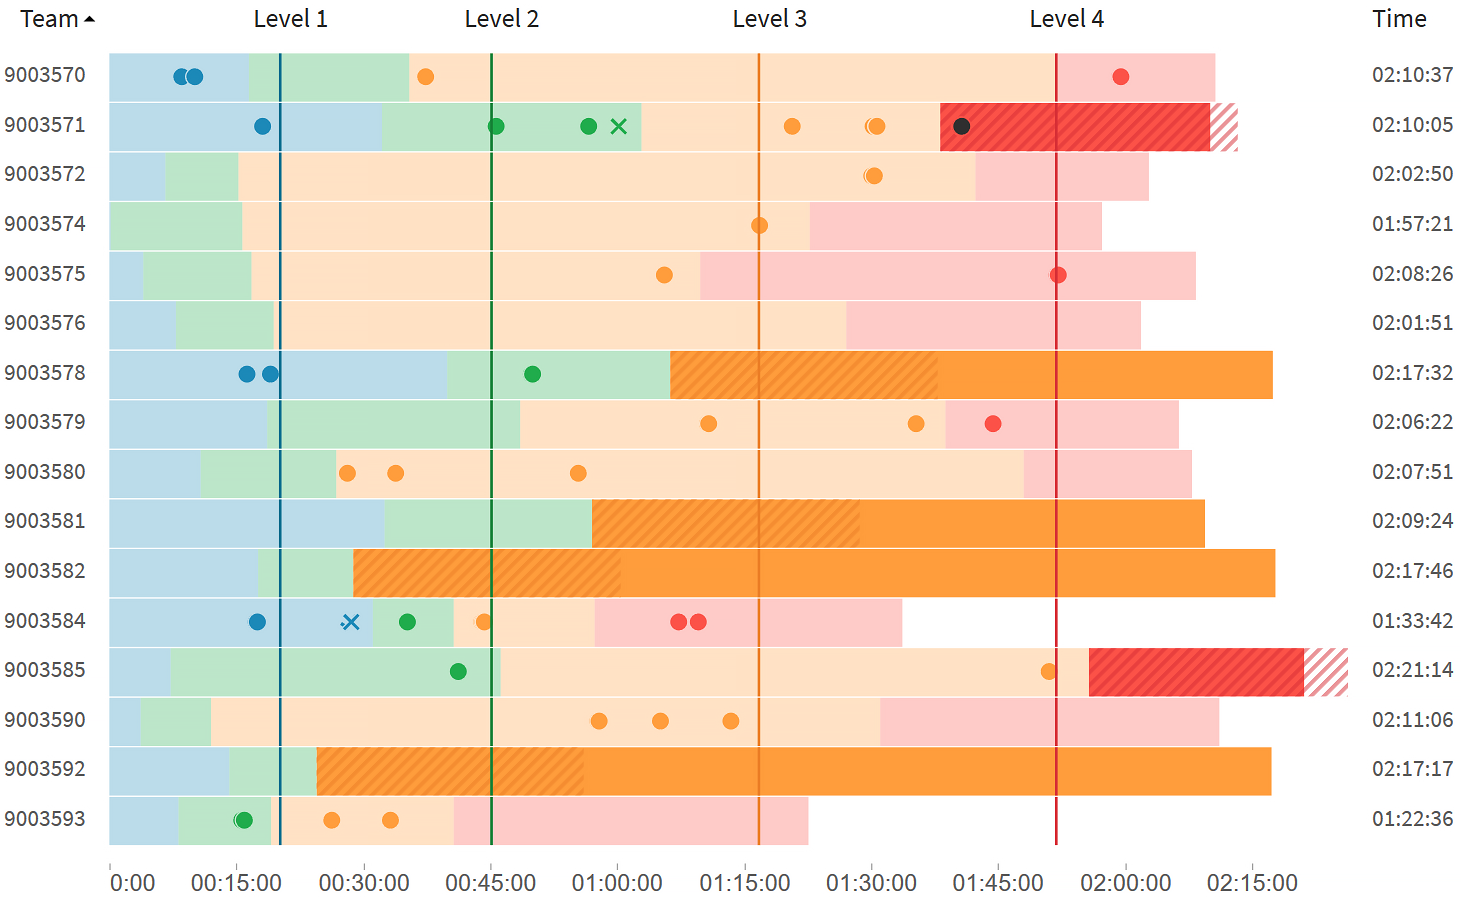
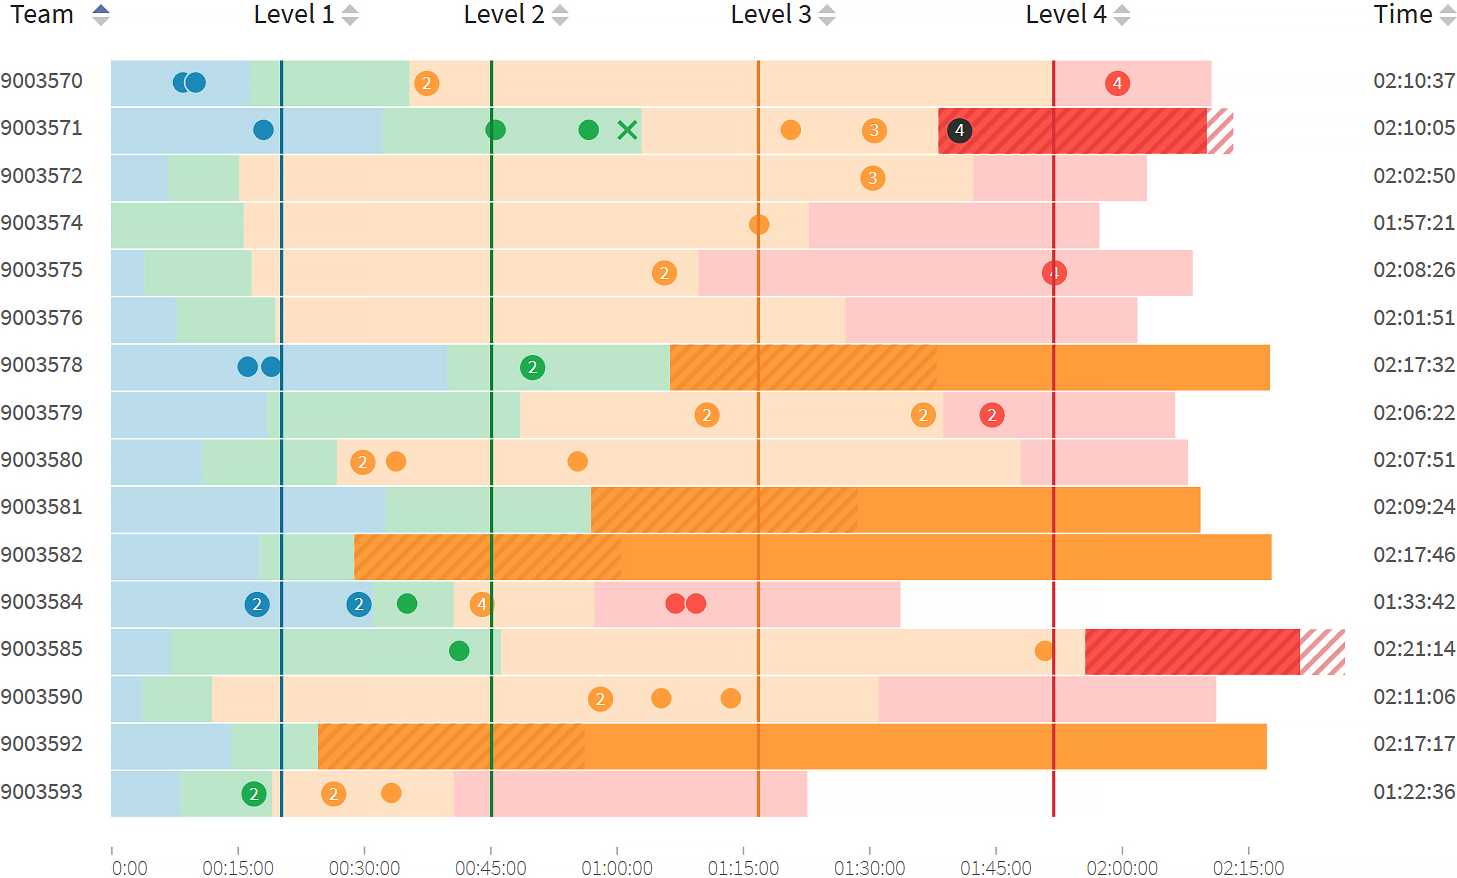
images, implementation - data duplicities

diff --git a/thesis.tex b/thesis.tex
@@ -59,7 +59,7 @@
     TeXtitle      = {Vizualizace pro dohled a~analýzu bezpečnostních her},
     keywords      = {KYPO, Capture the flag, CtF, bezpečnostní hry, vizualizace, D3.js, Angular},
     TeXkeywords   = {KYPO, Capture the flag, CtF, bezpečnostní hry, vizualizace, D3.js, Angular},
-    abstract      = {Cílem této práce je vytvoření webové aplikace pro vizualizaci dat získávaných během bezpečnostních her v prostředí KYPO, která bude sloužit pro sledování průběhu těchto her a jejich analýzu. Práce představuje prostředí KYPO a dále se zabývá návrhem, implementací a testováním bezpečnostních her v tomto prostředí. Popisuje také použité technologie a implementaci výsledné vizualizace.},
+    abstract      = {Cílem této práce je vytvoření webové aplikace pro vizualizaci dat získávaných během bezpečnostních her v prostředí KYPO, která bude sloužit pro sledování průběhu těchto her a pro jejich analýzu. Práce představuje prostředí KYPO a dále se zabývá návrhem, implementací a testováním bezpečnostních her v tomto prostředí. Popisuje také použité technologie a implementaci výsledné vizualizace.},
     thanks        = {These are the acknowledgements for my thesis, which can
 
                      span multiple paragraphs.}
@@ -94,15 +94,15 @@
 \begin{document}
 \chapter{Úvod}
 %které jsou potřebné pro předvídání kybernetických útoků a při budování obrany proti nim.
-Bezpečnostní hry jsou prostředkem k prohlubování a procvičování znalostí v oblasti kybernetické bezpečnosti, kdy díky zapojení do hry jsou znalosti využívány aktivním způsobem. Prostředí Kybernetického polygonu, pro které byla implementována praktická část této práce, je mimo jiné využíváno k výuce prostřednictvím těchto her. Za účelem jejich zdokonalování je třeba sledovat a analyzovat jejich skutečný průběh. Přehled o průběhu her je ale důležitý také pro vyučující, kteří je vedou, protože tak získají přehled o aktuálním postupu hráčů a mohou identifikovat případné problémy.\par
+Bezpečnostní hry jsou prostředkem k prohlubování a procvičování znalostí v oblasti kybernetické bezpečnosti, kdy díky zapojení účastníků do hry jsou jejich znalosti využívány aktivním způsobem. Prostředí Kybernetického polygonu, pro které byla implementována praktická část této práce, je mimo jiné využíváno k výuce prostřednictvím těchto her. Za účelem jejich zdokonalování je třeba sledovat a analyzovat jejich skutečný průběh. Přehled o průběhu her je ale důležitý také pro vyučující, kteří je vedou, protože tak získají přehled o aktuálním postupu hráčů a mohou identifikovat případné problémy.\par
 Data poskytující potřebné informace o průběhu hry jsou k dispozici díky zaznamenávání akcí účastníků v jejím průběhu. Cílem této práce je vytvořit vizuální reprezentaci těchto dat, a poskytnout tak vyučujícím přehled o situaci a postupu jednotlivých hráčů.
 %Cílem této práce je poskytnout vyučujícím vizuální reprezentaci získávaných dat, která by jim umožnila lepší přehled o situaci a stavu jednotlivých hráčů.
 Hlavní obsah textové části je rozdělen do několika kapitol.
 \begin{itemize}
-  \item Druhá kapitola stručně představuje prostředí Kybernetického polygonu, pro které byla vizualizace implementována. Dále se věnuje bezpečnostním hrám s názvem Capture the Flag, které se v prostředí Kybernetického polygonu odehrávají. Je popsán jejich návrh, implementace a testování, včetně výsledků a následných vylepšení, které se týkají také této vizualizace.
+  \item Druhá kapitola stručně představuje prostředí Kybernetického polygonu a dále se věnuje bezpečnostním hrám s názvem Capture the Flag, které se v prostředí Kybernetického polygonu odehrávají. Je popsán jejich návrh, implementace a testování, včetně výsledků a následných vylepšení, které se týkají také této vizualizace.
   \item Ve třetí kapitole jsou popsány cíle vizualizace a požadavky na ni, včetně popisu grafického návrhu od Bc. Kristíny Zákopčanové.
-  \item Čtvrtá kapitola uvádí technologie použité při implementaci. Nejdůležitější z nich knihovna D3.js a dále framework Angular.. Stručně představuje také framework Bootstrap, knihovnu Papa Parse a portál Liferay.
-  \item Pátá kapitola popisuje implementaci vizualizace. Vysvětluje principy vykreslování vizualizace, dále její strukturu, možnosti ovládání. Popisuje také výslednou aplikaci, způsob načítání dat a testy této aplikace.
+  \item Čtvrtá kapitola uvádí technologie použité při implementaci. Nejdůležitější z nich knihovna D3.js a dále framework Angular. Stručně představuje také framework Bootstrap, knihovnu Papa Parse a portál Liferay.
+  \item Pátá kapitola popisuje implementaci vizualizace, kdy vysvětluje principy vykreslování vizualizace a dále její strukturu. Dále popisuje výslednou aplikaci, způsob načítání dat, možnosti ovládání a testy této aplikace.
 \end{itemize}
 
 \chapter{Kybernetický polygon}
@@ -519,7 +519,7 @@ Mezi výhody této knihovny patří: \cite{papa}
   \item lze specifikovat oddělovač jednotlivých záznamů,
   \item soubory lze načítat i~vzdáleně skrze HTTP zadáním URL souboru,
   \item umožňuje streamování a~lze tak zpracovávat velké soubory,
-  \item zabraňuje blokování stránky použitím dalšího vlákna během parsování, tuto funkci lze nastavit pomocí worker: true,
+  \item je možné zabránit blokování stránky použitím dalšího vlákna během parsování, tuto funkci lze nastavit pomocí worker: true,
   \item umožňuje dynamické typování zpracovaných dat (na number, boolean)
   \item ošetřuje chyby vzniklé při parsování.
   %\item umožňuje také převádět data opačným směrem do CSV.
@@ -799,7 +799,8 @@ Aplikace využívá dva zdroje REST API, vrácené odpovědi jsou ve formátu JS
 %  	  \item typ události.
 %  	\end{itemize}
 \end{itemize}
-Aplikace využívá první zdroj k~získání informace o~počtu úrovní, aby bylo možné připravit datovou strukturu plánu hry. Informace o~časovém odhadu jednotlivých úrovní nejsou k~dispozici z~žádného zdroje. Z~tohoto důvodu jsou časové limity specifikovány v~rámci konfigurace aplikace \ref{config}. Jelikož není dostupný seznam her, ze kterého by bylo možné hru vybrat, bylo rozhodnuto, že ID hry, která má být zobrazena, bude také součástí konfigurace.\par
+Aplikace využívá první zdroj k~získání informace o~počtu úrovní, aby bylo možné připravit datovou strukturu plánu hry. Z~druhého zdroje se získávají potřebné události. Většina těchto událostí se v~datech získaných skrze API objevovala vícekrát a~proto jsou duplicitní události v~aplikaci odstraňovány.\par
+Informace o~časovém odhadu jednotlivých úrovní nejsou k~dispozici z~žádného zdroje. Z~tohoto důvodu jsou časové limity specifikovány v~rámci konfigurace aplikace \ref{config}. Nedostupný je také seznam her, ze kterého by bylo možné hru vybrat, a~proto bylo rozhodnuto, že ID hry, která má být zobrazena, bude také součástí konfigurace.\par
 
 \subsection{Načítání dat z CSV souboru}
 % NĚCO O NAHRÁNÍ SOUBORU?
@@ -815,7 +816,6 @@ Každý záznam události v~CSV souboru obsahuje tyto údaje:
   \item název události.
 \end{itemize}
 Již během parsování souboru je čas události převeden na časové razítko (timestamp) a~relativní čas na počet sekund. Také je zjištěn celkový začátek hry, a~to jako nejmenší časový údaj ze všech událostí. Všechna získaná data jsou dále předána ke zpracování.
-%TODO!!!!! U CSV NEVÍME DOPŘEDU POČET LEVELŮ
 
 \subsection{Zpracování dat}
 Pole načtených událostí je následně v~rámci služby zpracováno během jednoho cyklu do výsledné datové struktury. Pro každý tým je vytvořen objekt, do kterého se buď postupně přidávají určité události, jako např. využité nápovědy, nebo se do něho zaznamenávají informace o~průběhu hry. Mezi daty získanými z~CSV a~skrze API jsou rozdíly, princip práce s~událostmi je však následující:
@@ -857,10 +857,11 @@ Konfigurace aplikace se nachází v~souboru \verb|app.config.ts| a~obsahuje nás
 %  \item \verb|gameColors| – určuje jednotlivé barvy úrovní ve vizualizaci, barvy se zadávají jako pole hexadecimálních kódů,
 %  \item \verb|lightenedColors| – světlé barvy již odehraných úrovní,
 %  \item \verb|planColors| – barvy svislých čar značících časové limity,
-%  \item \verb|darkColor| – tmavá barva pro ikony událostí v~aktuální úrovni,
-  \item \verb|gameColors|, \verb|planColors|, \verb|lightenedColors| – určuje jednotlivé barvy úrovní ve vizualizaci, které se zadávají  jako pole barev v hexadecimálním kódu, \verb|gameColors| značí aktuální úrovně, \verb|lightenedColors| již odehrané úrovně a \verb|planColor| barvy čar pro časové limity,
-  \item \verb|minBarHeight| a \verb|maxBarHeight| – čísla, která určují minimální a maximální výšku každého řádku vizualizace v~pixelech,
-  \item \verb|maxZoomValue| a \verb|zoomStep| – hodnota maximálního přiblížení vizualizace,
+  \item \verb|gameColors|, \verb|lightenedColors|, \verb|planColors| – určuje barvy úrovní ve vizualizaci, které se zadávají  jako pole barev v~hexadecimálním kódu, konktrétně jde o~barvy aktuálních úrovní, odehraných úrovní a~čar pro časové limity,
+  \item \verb|darkColor| – tmavá barva pro ikony událostí v~aktuální úrovni,
+%  \item \verb|gameColors|, \verb|planColors|, \verb|lightenedColors| – určuje jednotlivé barvy úrovní ve vizualizaci, které se zadávají  jako pole barev v hexadecimálním kódu, \verb|gameColors| značí aktuální úrovně, \verb|lightenedColors| již odehrané úrovně a \verb|planColor| barvy čar pro časové limity,
+  \item \verb|minBarHeight| a~\verb|maxBarHeight| – čísla, která určují minimální a~maximální výšku každého řádku vizualizace v~pixelech,
+  \item \verb|maxZoomValue| a~\verb|zoomStep| – hodnota maximálního přiblížení vizualizace,
   \item \verb|zoomStep| – velikost jednoho kroku během zoomování,
   \item \verb|defaultView| – výchozí pohled, který je vybrán po načtení aplikace.
 \end{itemize}
@@ -878,11 +879,11 @@ Protože komponenty zahrnují nejen třídu, ale i~šablonu, je u~nich třeba ta
 \end{itemize}
 Otestovány jsou také obě služby pro načítání dat. Testovány jsou následující podmínky:
 \begin{itemize}
-  \item zda služba \verb|LoadCsvDataService| hlásí chybu při parsování souboru, který nemá formát CSV nebo není validní,
+  \item zda služba \verb|LoadCsvDataService| hlásí chybu při parsování souboru, který není ve formátu CSV nebo není validní,
   \item vrací správná data pro validní CSV soubory,
   \item zda služba \verb|LoadDataService| odesílá dva správné požadavky na API,
   \item zda hlásí chybu při neúspěchu,
-  \item v případě úspěchu vrací správná data.
+  \item v~případě úspěchu vrací správná data.
 \end{itemize}
 
 \chapter{Závěr}
